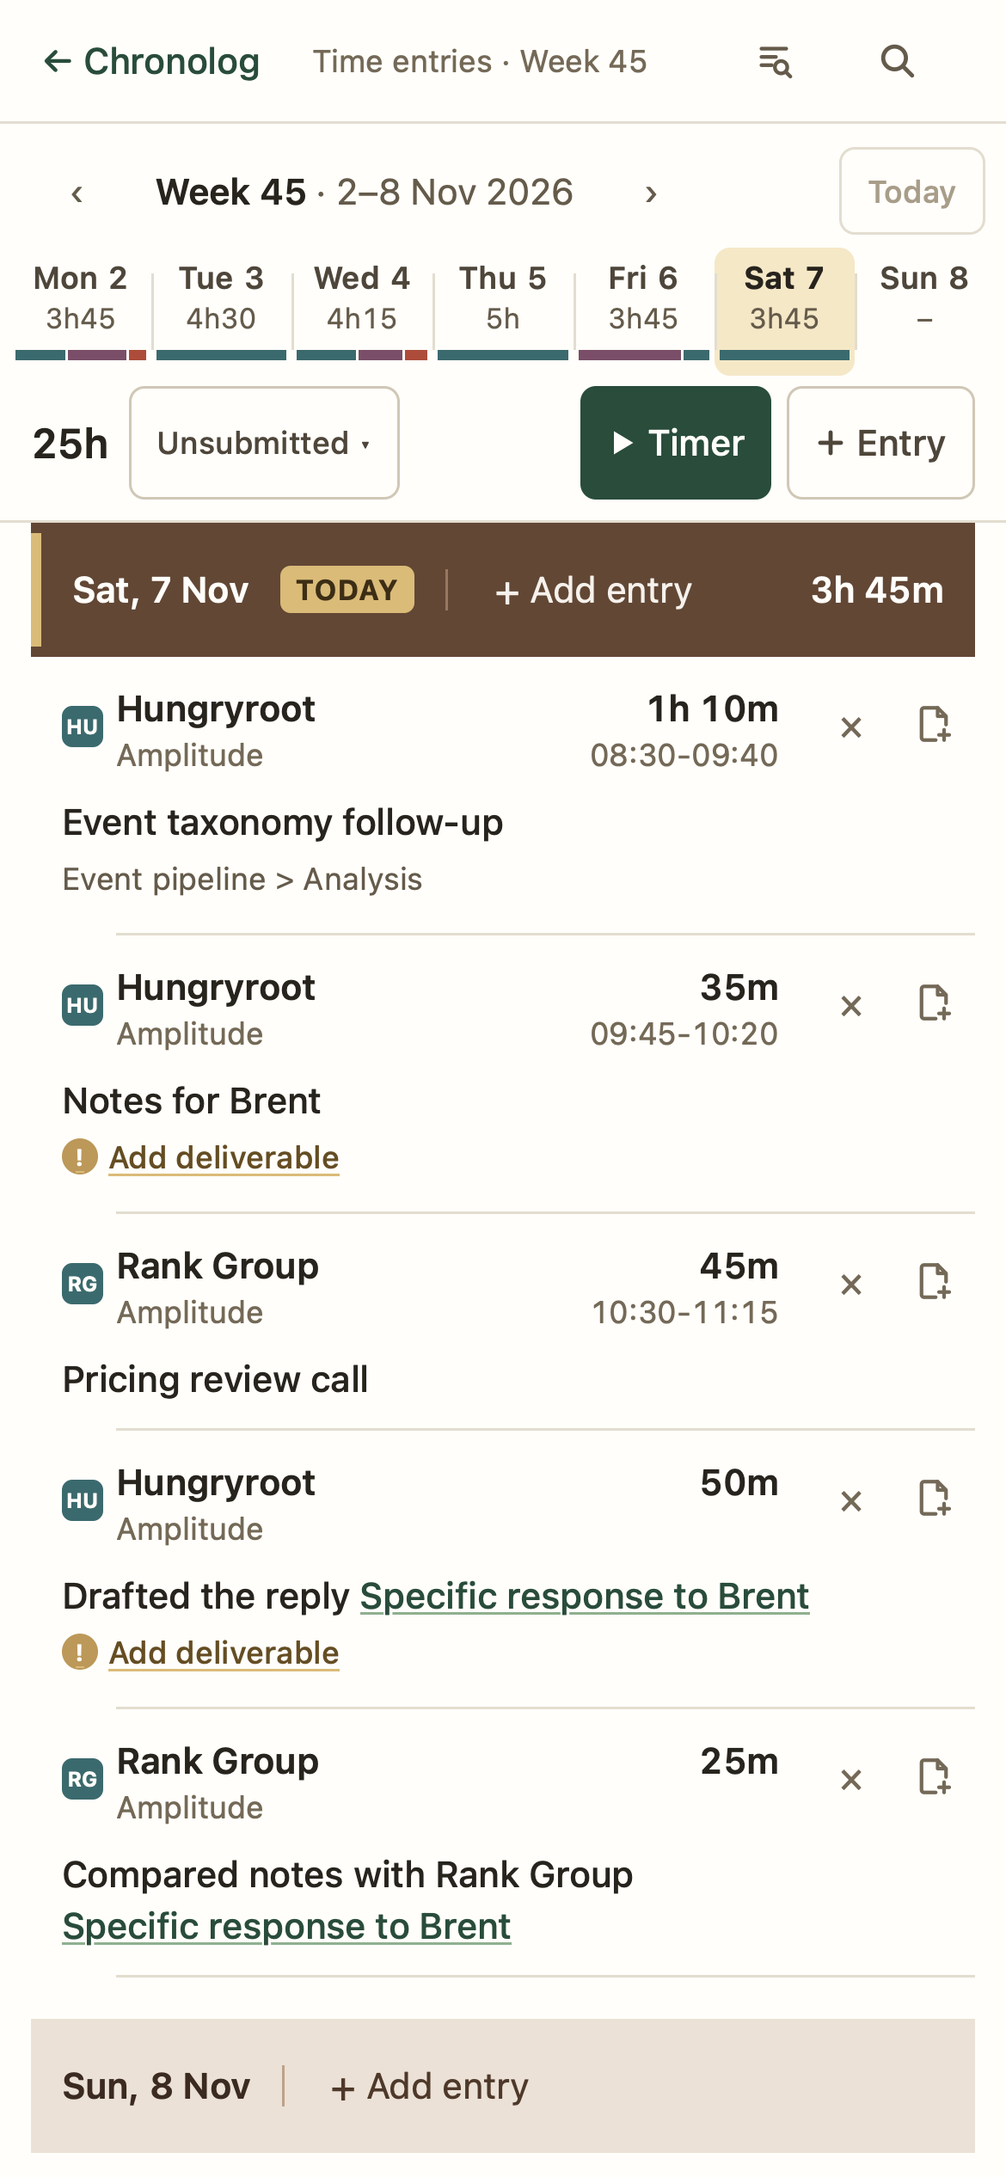
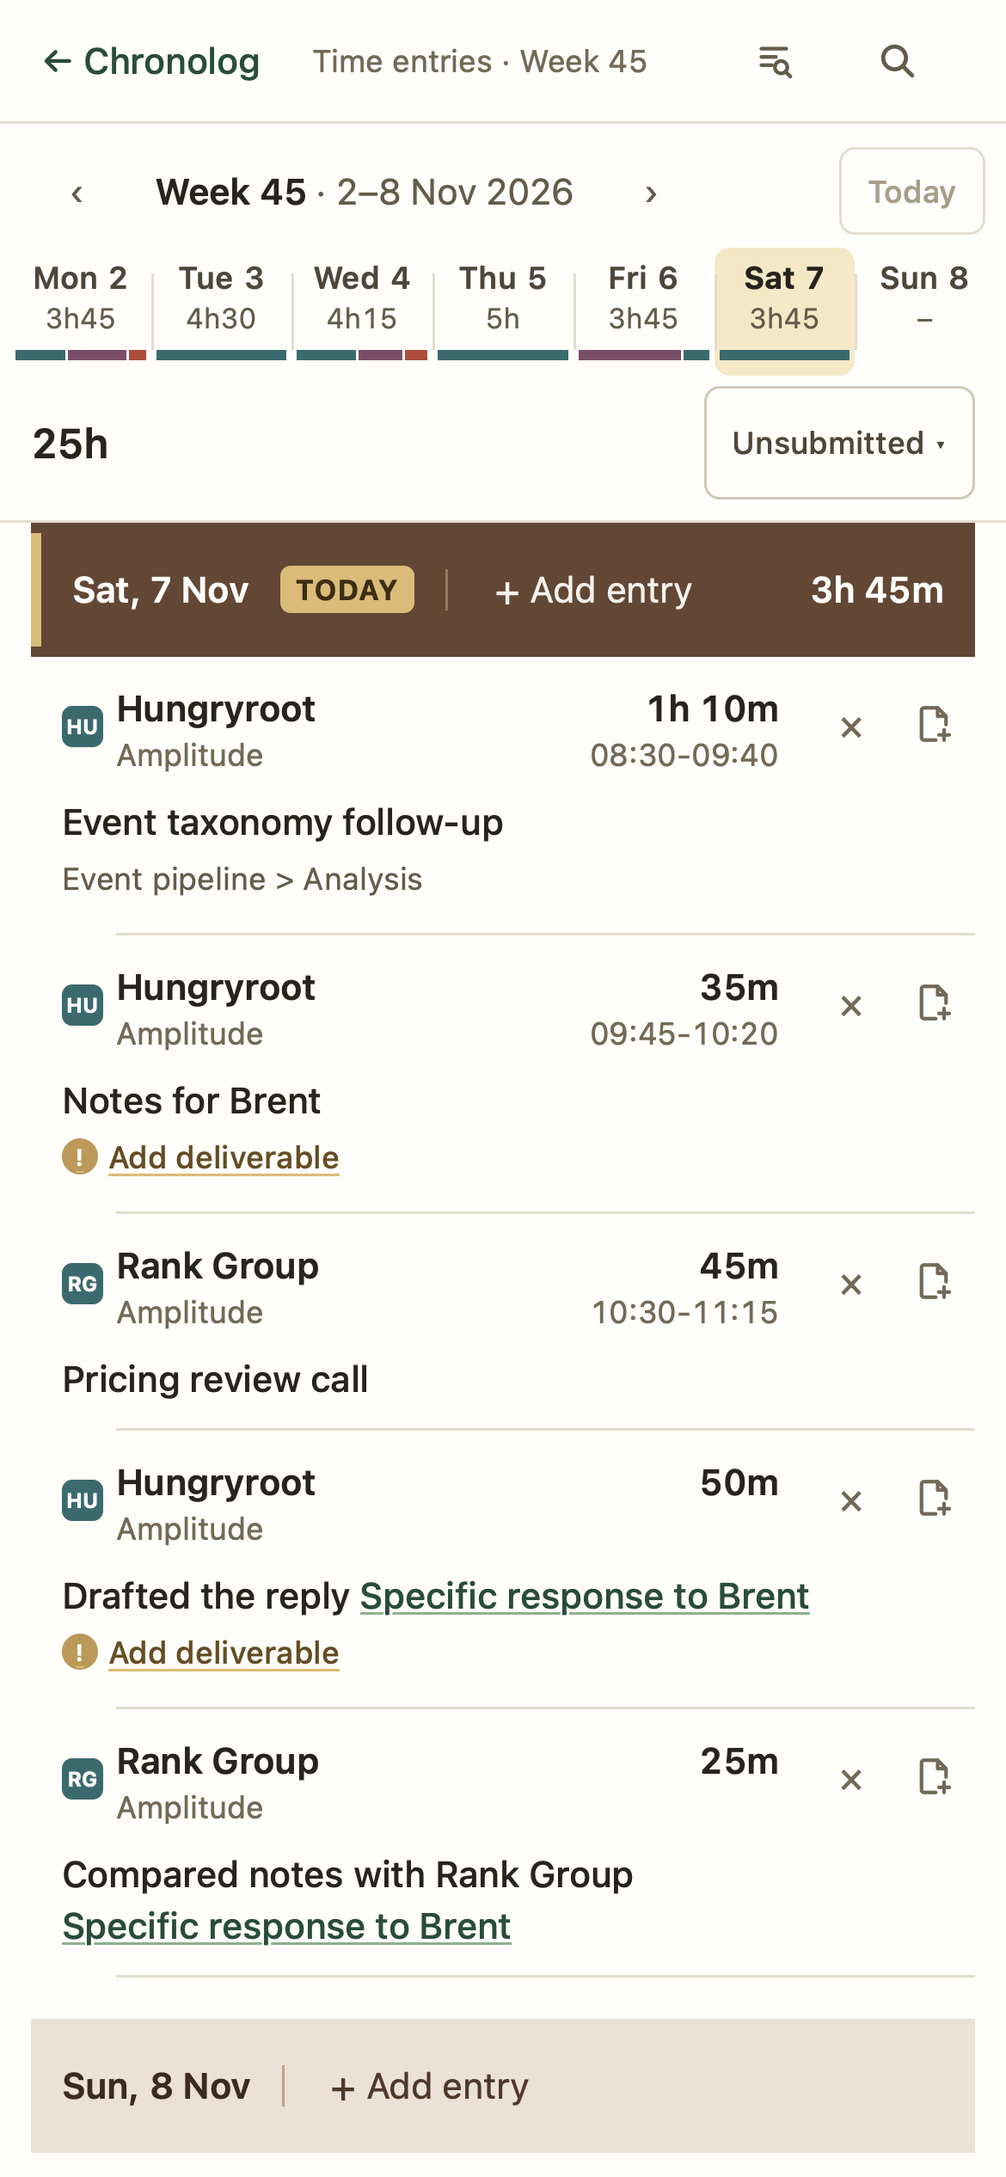
Phone week: no Start timer or Add Entry (owner change); summary row wraps
The phone gets timer access from the header pill (running or unfinished
capture) and the home screen's widget; each day heading keeps Add entry.
WeekStrip loses phoneActions and its total / status row may wrap at 320 px.
Phone specs start the timer from the home widget and follow the pill; the
phone week screenshot is retaken.

Changed region(s): [[0.5538, 0.156, 0.9231, 0.2496], [0.1538, 0.1872, 0.3385, 0.2184]]

diff --git a/e2e-playwright/iphone-journeys.spec.ts b/e2e-playwright/iphone-journeys.spec.ts
@@ -50,18 +50,23 @@ test('sign in, then the week: add, edit and delete an entry @iphone', async ({ p
 	await expectTouchSized(page.getByRole('button', { name: /^Add entry for / }).first());
 	await iphoneScreenshot(page, testInfo, '02-week');
 
-	// Add an entry through the modal: every field at 16px or more (no zoom on focus)
-	await page.getByRole('button', { name: 'Add Entry', exact: true }).last().click();
-	const dialog = page.getByRole('dialog');
-	await expect(dialog).toBeVisible();
+	// Add an entry from today's heading (060-DR: the phone week has no Add Entry button):
+	// every field at 16px or more (no zoom on focus)
+	const now = new Date();
+	const today = `${now.getFullYear()}-${String(now.getMonth() + 1).padStart(2, '0')}-${String(now.getDate()).padStart(2, '0')}`;
+	await expect(page.getByTestId('phone-start-timer')).toHaveCount(0);
+	await expect(page.getByRole('button', { name: 'Add Entry', exact: true })).toHaveCount(0);
+	await page.locator(`[data-add-entry="${today}"]`).click();
+	const prefix = `#new-entry-${today}`;
+	await expect(page.locator(`${prefix}-contract`)).toBeVisible();
 	await expectNoZoomingFields(page);
-	await expectInsideViewportWidth(page, dialog.locator('> div').first());
+	await expectNoSidewaysScroll(page);
 	await iphoneScreenshot(page, testInfo, '03-add-entry');
-	await dialog.locator('#entry-description').fill('Phone entry');
-	const contractValue = await dialog.locator('#entry-contract option', { hasText: seed.contractName }).first().getAttribute('value');
-	await dialog.locator('#entry-contract').selectOption(contractValue!);
-	await dialog.locator('#entry-duration').fill('45m');
-	await dialog.getByRole('button', { name: 'Save' }).click();
+	await page.keyboard.type('Phone entry');
+	const contractValue = await page.locator(`${prefix}-contract option`, { hasText: seed.contractName }).first().getAttribute('value');
+	await page.locator(`${prefix}-contract`).selectOption(contractValue!);
+	await page.locator(`${prefix}-time`).fill('45m');
+	await page.locator(`${prefix}-time`).press('Enter');
 	const card = page.getByTestId('time-entry-card').filter({ hasText: 'Phone entry' });
 	await expect(card).toBeVisible();
 
@@ -93,12 +98,18 @@ test('timer: start, adjust the start, stop and discard @iphone', async ({ page, 
 	await signInAsFreshUser(page, baseURL, 'iphone-timer');
 	await seedIphoneData(page, uniqueSuffix());
 	await open(page, '/time');
-	// 057-DR: no footer timer bar on the phone timesheet; "Start timer" opens the capture screen
+	// 057-DR: no footer timer bar; 060-DR: no Start timer in the phone week either
 	await expect(page.getByTestId('timer-widget-footer')).toHaveCount(0);
-	await page.getByTestId('phone-start-timer').click();
-	// One path (checkpoint B/C): the week's Start timer opens the same capture screen as the pill
+	await expect(page.getByTestId('phone-start-timer')).toHaveCount(0);
+	// A new timer starts from the home screen's widget
+	await open(page, '/');
+	const homeWidget = page.getByTestId('timer-widget-sidebar');
+	await homeWidget.getByRole('button', { name: 'Start Timer' }).click();
+	await expect(homeWidget.getByTestId('timer-start-time')).toBeVisible();
+	// On the week the running capture is the header pill, which opens the capture screen
+	await open(page, '/time');
+	await page.getByTestId('timer-indicator').click();
 	const widget = page.getByTestId('phone-capture-screen').getByTestId('timer-widget-screen');
-	await widget.getByRole('button', { name: 'Start Timer' }).click();
 	const startField = widget.getByTestId('timer-start-time');
 	await expect(startField).toBeVisible();
 	await expectNoZoomingFields(page);
@@ -111,9 +122,9 @@ test('timer: start, adjust the start, stop and discard @iphone', async ({ page, 
 	await expectNoZoomingFields(page);
 	await iphoneScreenshot(page, testInfo, '05-timer-stopped');
 	await widget.getByRole('button', { name: /Discard/ }).click();
-	// Discard resolves the capture and leaves the screen: back on the week, Start timer is offered again
+	// Discard resolves the capture and leaves the screen: back on the week, no pill
 	await expect(page.getByTestId('phone-capture-screen')).toHaveCount(0);
-	await expect(page.getByTestId('phone-start-timer')).toBeVisible();
+	await expect(page.getByTestId('timer-indicator')).toHaveCount(0);
 });
 
 test('notes: list, editor, wiki-link list, menus, find and Undo @iphone', async ({ page, baseURL }, testInfo) => {
@@ -285,8 +296,10 @@ test('landscape on the standard iPhone: week and note @iphone', async ({ page, b
 	await expect(weekStrip).toHaveCSS('position', 'static');
 	await iphoneScreenshot(page, testInfo, '20-landscape-week');
 
-	// A modal taller than the screen scrolls inside itself, so Save can be reached
-	await page.getByRole('button', { name: 'Add Entry', exact: true }).last().click();
+	// A modal taller than the screen scrolls inside itself, so Save can be reached (the home
+	// screen widget's Add Entry: the phone week has none since 060-DR)
+	await open(page, '/');
+	await page.getByTestId('timer-widget-sidebar').getByRole('button', { name: 'Add Entry' }).click();
 	const dialog = page.getByRole('dialog');
 	const dialogBox = await dialog.boundingBox();
 	expect(dialogBox!.y, 'dialog top on screen').toBeGreaterThanOrEqual(0);

diff --git a/src/lib/components/layout/TimeEntriesPanel.svelte b/src/lib/components/layout/TimeEntriesPanel.svelte
@@ -1,5 +1,4 @@
 <script lang="ts">
-	import { captureScreen } from '$lib/components/timer/capture-screen.svelte';
 	import FindBar from '$lib/components/find/FindBar.svelte';
 	import { onMount, tick } from 'svelte';
 	import { getNavigationContext } from '$lib/stores/navigation.svelte';
@@ -8,9 +7,6 @@
 	import WeekStrip from '$lib/components/weekly/WeekStrip.svelte';
 	import TimeEntryCard from '$lib/components/weekly/TimeEntryCard.svelte';
 	import NewEntryRow from '$lib/components/weekly/NewEntryRow.svelte';
-	import AddTimeEntryModal from '$lib/components/timer/AddTimeEntryModal.svelte';
-	import { getTimerStateContext } from '$lib/stores/timer-state.svelte';
-	import { dispatchTimeEntrySaved } from '$lib/components/weekly/time-entry-events';
 	import { getMondayOfWeek, getWeekDates, formatDayHeader } from '$lib/utils/iso-week';
 	import { calendarWeekOf } from '$lib/utils/calendar-week';
 	import { formatDayHeading, formatWeekHeading } from '$lib/components/weekly/week-labels';
@@ -25,7 +21,6 @@
 
 	const navigation = getNavigationContext();
 	const dataService = getDataService();
-	const timer = getTimerStateContext();
 
 	let loadedWeeks = $state<WeekData[]>([]);
 	let isLoading = $state(false);
@@ -183,20 +178,9 @@
 			: []
 	);
 
-	// The phone's Add Entry opens on today when today is in view
-	let addEntryDate = $derived(displayDays.includes(todayString) ? todayString : selectedWeekStart);
-
-	// Phone (TR-08): no footer timer bar. A running or stopped capture is in the header pill (053-DR);
-	// with no capture, Start timer (the capture screen, the same path as the pill) and Add Entry
-	// stay in the week controls.
-	let showPhoneCaptureAccess = $derived(navigation.layoutMode === 'mobile' && timer.status === 'idle');
-	let showAddEntryModal = $state(false);
-
-	function handlePhoneEntryCreated(created: { entryId: string; date: string }) {
-		showAddEntryModal = false;
-		dispatchTimeEntrySaved(created);
-		navigation.showTimeEntryDay(created.date);
-	}
+	// Phone (TR-08; owner change in 060-DR): no footer timer bar and no Start timer / Add Entry in
+	// the week controls. A running or stopped capture is in the header pill (053-DR); a new timer
+	// starts from the home screen's widget; each day heading keeps its "Add entry".
 
 	// A failed week-status save, shown at the status (TR-07); cleared by the next attempt
 	let statusError = $state('');
@@ -523,25 +507,6 @@
 	</section>
 {/snippet}
 
-<!-- Phone (060-DR): icon plus label on the week's summary row; under 400 px the label is one word -->
-{#snippet phoneCaptureAccess()}
-	{#if showPhoneCaptureAccess}
-		<button
-			type="button"
-			onclick={() => captureScreen.open()}
-			class="flex items-center gap-1 rounded-control px-2.5 py-1.5 text-sm font-medium whitespace-nowrap btn-primary pointer-coarse:min-h-11"
-			title="Open the timer to start it"
-			aria-label="Start timer"
-			data-testid="phone-start-timer"
-		><svg class="h-3 w-3 shrink-0" viewBox="0 0 12 12" fill="currentColor" aria-hidden="true"><path d="M3 1.5v9l7.5-4.5z" /></svg><span class="max-[399px]:hidden">Start timer</span><span class="hidden max-[399px]:inline">Timer</span></button>
-		<button
-			type="button"
-			onclick={() => (showAddEntryModal = true)}
-			aria-label="Add Entry"
-			class="flex items-center gap-1 rounded-control px-2.5 py-1.5 text-sm font-medium whitespace-nowrap btn-secondary pointer-coarse:min-h-11"
-		><svg class="h-3 w-3 shrink-0" viewBox="0 0 12 12" fill="none" stroke="currentColor" stroke-width="1.6" stroke-linecap="round" aria-hidden="true"><path d="M6 2v8M2 6h8" /></svg><span class="max-[399px]:hidden">Add Entry</span><span class="hidden max-[399px]:inline">Entry</span></button>
-	{/if}
-{/snippet}
 
 <div class="flex h-full flex-col overflow-hidden bg-surface">
 	<FindBar mode="dom" />
@@ -558,7 +523,6 @@
 			onNextWeek={navigateToNextWeek}
 			onDayClick={handleDayClick}
 			onToday={() => navigation.showTimeEntryDay(todayString)}
-			phoneActions={showPhoneCaptureAccess ? phoneCaptureAccess : undefined}
 		/>
 	{/if}
 
@@ -591,9 +555,6 @@
 	</div>
 </div>
 
-{#if showAddEntryModal}
-	<AddTimeEntryModal initialDate={addEntryDate} onCreated={handlePhoneEntryCreated} onClose={() => (showAddEntryModal = false)} />
-{/if}
 
 <style>
 	/* Sticky inside its own day section: pinned to the top of the scroller while the day's entries

diff --git a/e2e-playwright/checkpoint-bc-acceptance.spec.ts b/e2e-playwright/checkpoint-bc-acceptance.spec.ts
@@ -10,7 +10,7 @@
  *   loads inserts from its own reply.
  * - TC-08 short desktop height, absent contract, no applicable ontology: the completion form on
  *   /time at 1280×600 keeps Save reachable and saves into the week.
- * - TC-08 phone: the week's Start timer and the header pill open the same capture screen.
+ * - TC-08 phone: a timer started from the home widget is the week's header pill, which opens the capture screen (060-DR: no Start timer in the phone week).
  * Every other row of the spec 08 matrix is covered by a stage spec; see
  * docs/review/2026-11-07-checkpoint-bc.md for the table.
  */
@@ -183,29 +183,29 @@ test.describe('desktop', () => {
 });
 
 test.describe('phone @iphone', () => {
-	test('the week Start timer and the header pill open the same capture screen @iphone', async ({ page, baseURL }, testInfo) => {
+	test('a timer started on the home screen is the pill on the week, which opens the capture screen @iphone', async ({ page, baseURL }, testInfo) => {
 		test.skip(!testInfo.project.name.startsWith('iphone'), 'phone layout');
 		await signInAsFreshUser(page, baseURL, 'bc-phone-start');
 		await seedCheckpointBc(page);
 		await openTime(page);
 		const screen = page.getByTestId('phone-capture-screen');
 
-		// No timer yet: Start timer opens the capture screen, which starts it
-		await page.getByTestId('phone-start-timer').click();
-		await expect(screen).toBeVisible();
-		await screen.getByRole('button', { name: 'Start Timer' }).click();
-		await expect(screen.getByRole('button', { name: 'Stop', exact: true })).toBeVisible();
-		await screen.getByTestId('capture-screen-back').click();
-		await expect(screen).toHaveCount(0);
-
-		// Running: the week offers the pill instead, and the pill opens the same screen
+		// Owner change (060-DR): the phone week has no Start timer; the home screen's widget starts it
 		await expect(page.getByTestId('phone-start-timer')).toHaveCount(0);
+		await expect(page.getByTestId('timer-indicator')).toHaveCount(0);
+		await page.goto('/');
+		await page.waitForLoadState('networkidle');
+		await page.getByTestId('timer-widget-sidebar').getByRole('button', { name: 'Start Timer' }).click();
+		await expect(page.getByTestId('timer-widget-sidebar').getByRole('button', { name: 'Stop', exact: true })).toBeVisible();
+
+		// Running: the week shows the pill, and the pill opens the capture screen
+		await openTime(page);
 		await page.getByTestId('timer-indicator').click();
 		await expect(screen).toBeVisible();
 		await expect(screen.getByRole('button', { name: 'Stop', exact: true })).toBeVisible();
 		await screen.getByRole('button', { name: 'Stop', exact: true }).click();
 		await screen.getByRole('button', { name: /Discard/ }).click();
 		await expect(screen).toHaveCount(0);
-		await expect(page.getByTestId('phone-start-timer')).toBeVisible();
+		await expect(page.getByTestId('timer-indicator')).toHaveCount(0);
 	});
 });

diff --git a/src/lib/components/weekly/WeekStrip.svelte b/src/lib/components/weekly/WeekStrip.svelte
@@ -3,11 +3,10 @@
 	one row; seven day cells (weekday and date on one line, duration below, a thin segmented bar of
 	the day's client colours from the actual entries). A day cell scrolls to that day's heading; it
 	is not a filter. Week numbers follow calendar-week.ts (Week 1 contains 1 January).
-	Phone: the total and status move to one row under the days, with `phoneActions` (capture access
-	when no timer runs) at its end (sprint 060-DR: three compact rows above the first day).
+	Phone: the total and status move to one row under the days (sprint 060-DR: three compact rows
+	above the first day; no capture buttons, the header pill and home widget give timer access).
 -->
 <script lang="ts">
-	import type { Snippet } from 'svelte';
 	import { getMondayOfWeek } from '$lib/utils/iso-week';
 	import { calendarWeekNumber } from '$lib/utils/calendar-week';
 	import { formatMinutes, formatMinutesCompact } from '$lib/utils/duration';
@@ -31,8 +30,7 @@
 		onPrevWeek,
 		onNextWeek,
 		onDayClick,
-		onToday,
-		phoneActions
+		onToday
 	}: {
 		weekStart: string;
 		days: DayData[];
@@ -46,8 +44,6 @@
 		onDayClick: (date: string) => void;
 		/** Jump to the current week and today's section (sprint 041-CL); no button without it */
 		onToday?: () => void;
-		/** Extra phone-only controls in the total / status row */
-		phoneActions?: Snippet;
 	} = $props();
 
 	const weekNumber = $derived(calendarWeekNumber(weekStart));
@@ -99,7 +95,7 @@
 		{/if}
 	</div>
 
-	<div class="week-strip-summary flex flex-nowrap items-center justify-between gap-x-2 gap-y-2 px-3 pb-2 sm:justify-end sm:gap-x-3 sm:px-4 sm:pt-2 sm:pb-1">
+	<div class="week-strip-summary flex flex-wrap items-center justify-between gap-x-2 gap-y-2 px-3 pb-2 sm:justify-end sm:gap-x-3 sm:px-4 sm:pt-2 sm:pb-1">
 		<span class="text-base font-semibold whitespace-nowrap tabular-nums text-ink sm:text-lg" data-testid="week-total">{weeklyTotalHours}</span>
 		<div class="flex flex-col items-end">
 			<WeekStatusMenu {currentStatus} {onStatusChange} />
@@ -107,9 +103,6 @@
 				<p class="mt-0.5 text-xs text-danger" role="alert" data-testid="week-status-error">{statusError}</p>
 			{/if}
 		</div>
-		{#if phoneActions}
-			<div class="ml-auto flex justify-end gap-1.5 empty:hidden sm:order-first sm:ml-0 sm:gap-2">{@render phoneActions()}</div>
-		{/if}
 	</div>
 
 	<!-- Seven days: a jump to that day's heading, not a filter -->

diff --git a/e2e-playwright/time-review.spec.ts b/e2e-playwright/time-review.spec.ts
@@ -302,17 +302,19 @@ test.describe('Time review (057-DR)', () => {
 });
 
 test.describe('Time review on a phone (057-DR) @iphone', () => {
-	test('week and day: compact strip, reflowed rows, no footer timer, capture access when idle @iphone', async ({ page, baseURL }, testInfo) => {
+	test('week and day: compact strip, reflowed rows, no footer timer, no capture buttons in the week @iphone', async ({ page, baseURL }, testInfo) => {
 		test.skip(!testInfo.project.name.startsWith('iphone'), 'phone layout');
 		await signInAsFreshUser(page, baseURL, 'time-review-phone');
 		const seed = await seedWeek(page);
 		await open(page, '/time');
 		await expect(page.getByTestId('time-entry-card').first()).toBeVisible();
 
-		// No persistent bottom timer bar; Start timer / Add Entry stay while no timer runs
+		// No persistent bottom timer bar, and (owner change, 060-DR) no Start timer / Add Entry in the
+		// week controls: the pill and the home widget give timer access, each day keeps "Add entry"
 		await expect(page.getByTestId('timer-widget-footer')).toHaveCount(0);
-		await expect(page.getByTestId('phone-start-timer')).toBeVisible();
-		await expect(page.getByRole('button', { name: 'Add Entry', exact: true })).toBeVisible();
+		await expect(page.getByTestId('phone-start-timer')).toHaveCount(0);
+		await expect(page.getByRole('button', { name: 'Add Entry', exact: true })).toHaveCount(0);
+		await expect(page.getByRole('button', { name: /^Add entry for / }).first()).toBeVisible();
 		const widthOverflow = await page.evaluate(() => document.documentElement.scrollWidth - window.innerWidth);
 		expect(widthOverflow).toBeLessThanOrEqual(0);
 

diff --git a/src/lib/components/weekly/readme.md b/src/lib/components/weekly/readme.md
@@ -4,7 +4,7 @@ Components for displaying and editing time entries, used by the layout panels.
 
 ## Components
 
-- **WeekStrip.svelte** — Week overview (057-DR, TR-01), sticky above the timesheet scroller (`data-testid="week-strip"`): ‹ › (titles name the neighbouring week numbers, no wrap at 52), "Week 45 · 2–8 Nov 2026", Today (041-CL), week total and status in one row (phone: total and status below the days, with the panel's `phoneActions`). Seven day cells: "Mon 2", duration, a thin segmented client-colour bar from the actual entries (`flex-grow` by share). A cell scrolls to that day's heading; it is not a filter. Today's cell keeps `bg-ochre-100`. A failed status save shows under the status (`statusError`).
+- **WeekStrip.svelte** — Week overview (057-DR, TR-01), sticky above the timesheet scroller (`data-testid="week-strip"`): ‹ › (titles name the neighbouring week numbers, no wrap at 52), "Week 45 · 2–8 Nov 2026", Today (041-CL), week total and status in one row (phone: total and status on one row below the days). Seven day cells: "Mon 2", duration, a thin segmented client-colour bar from the actual entries (`flex-grow` by share). A cell scrolls to that day's heading; it is not a filter. Today's cell keeps `bg-ochre-100`. A failed status save shows under the status (`statusError`).
 - **WeekStatusMenu.svelte** — Menu for the week status: Unsubmitted, Draft ready, Submitted. Recordkeeping only; the Submitted hint says nothing is sent.
 - **week-labels.ts** — Week heading, week span ("28 Dec 2026 – 3 Jan 2027"), neighbouring week numbers, day headings ("Thursday, 5 November"), strip day ("Mon 2"). Tested.
 - **day-jump.ts** — `dayJumpScrollTop`: where to scroll so a day's heading sits under the week controls (replaces the fixed 8px offset). Tested.
@@ -26,7 +26,7 @@ Components for displaying and editing time entries, used by the layout panels.
 
 Components receive data as props from the parent layout panel (`TimeEntriesPanel`). Mutations (create, update, delete) go through the `DataService` from context within each component, with `onUpdated`/`onEntryCreated` callbacks to trigger parent re-fetches.
 
-TimeEntriesPanel (in `components/layout`) shows all seven days of the selected week, future days included, each under a bark-brown heading bar (date, local Add entry, day total; square ends) that is sticky inside its own day section, so the next day's heading replaces it at the boundary. Days with no entries get a quieter bar; today an ochre marker and "Today" tag, with no tint over the day. Older weeks are appended under "Show the week before". Phone: no footer timer bar (the header pill from 053-DR shows a running or stopped capture); with no capture the week controls offer Start timer (opens the capture screen) and Add Entry (the Add Entry modal).
+TimeEntriesPanel (in `components/layout`) shows all seven days of the selected week, future days included, each under a bark-brown heading bar (date, local Add entry, day total; square ends) that is sticky inside its own day section, so the next day's heading replaces it at the boundary. Days with no entries get a quieter bar; today an ochre marker and "Today" tag, with no tint over the day. Older weeks are appended under "Show the week before". Phone: no footer timer bar (the header pill from 053-DR shows a running or stopped capture); since 060-DR the week controls have no Start timer or Add Entry: a new timer starts from the home screen's widget, and each day heading keeps its Add entry.
 
 ## Related Files
 
